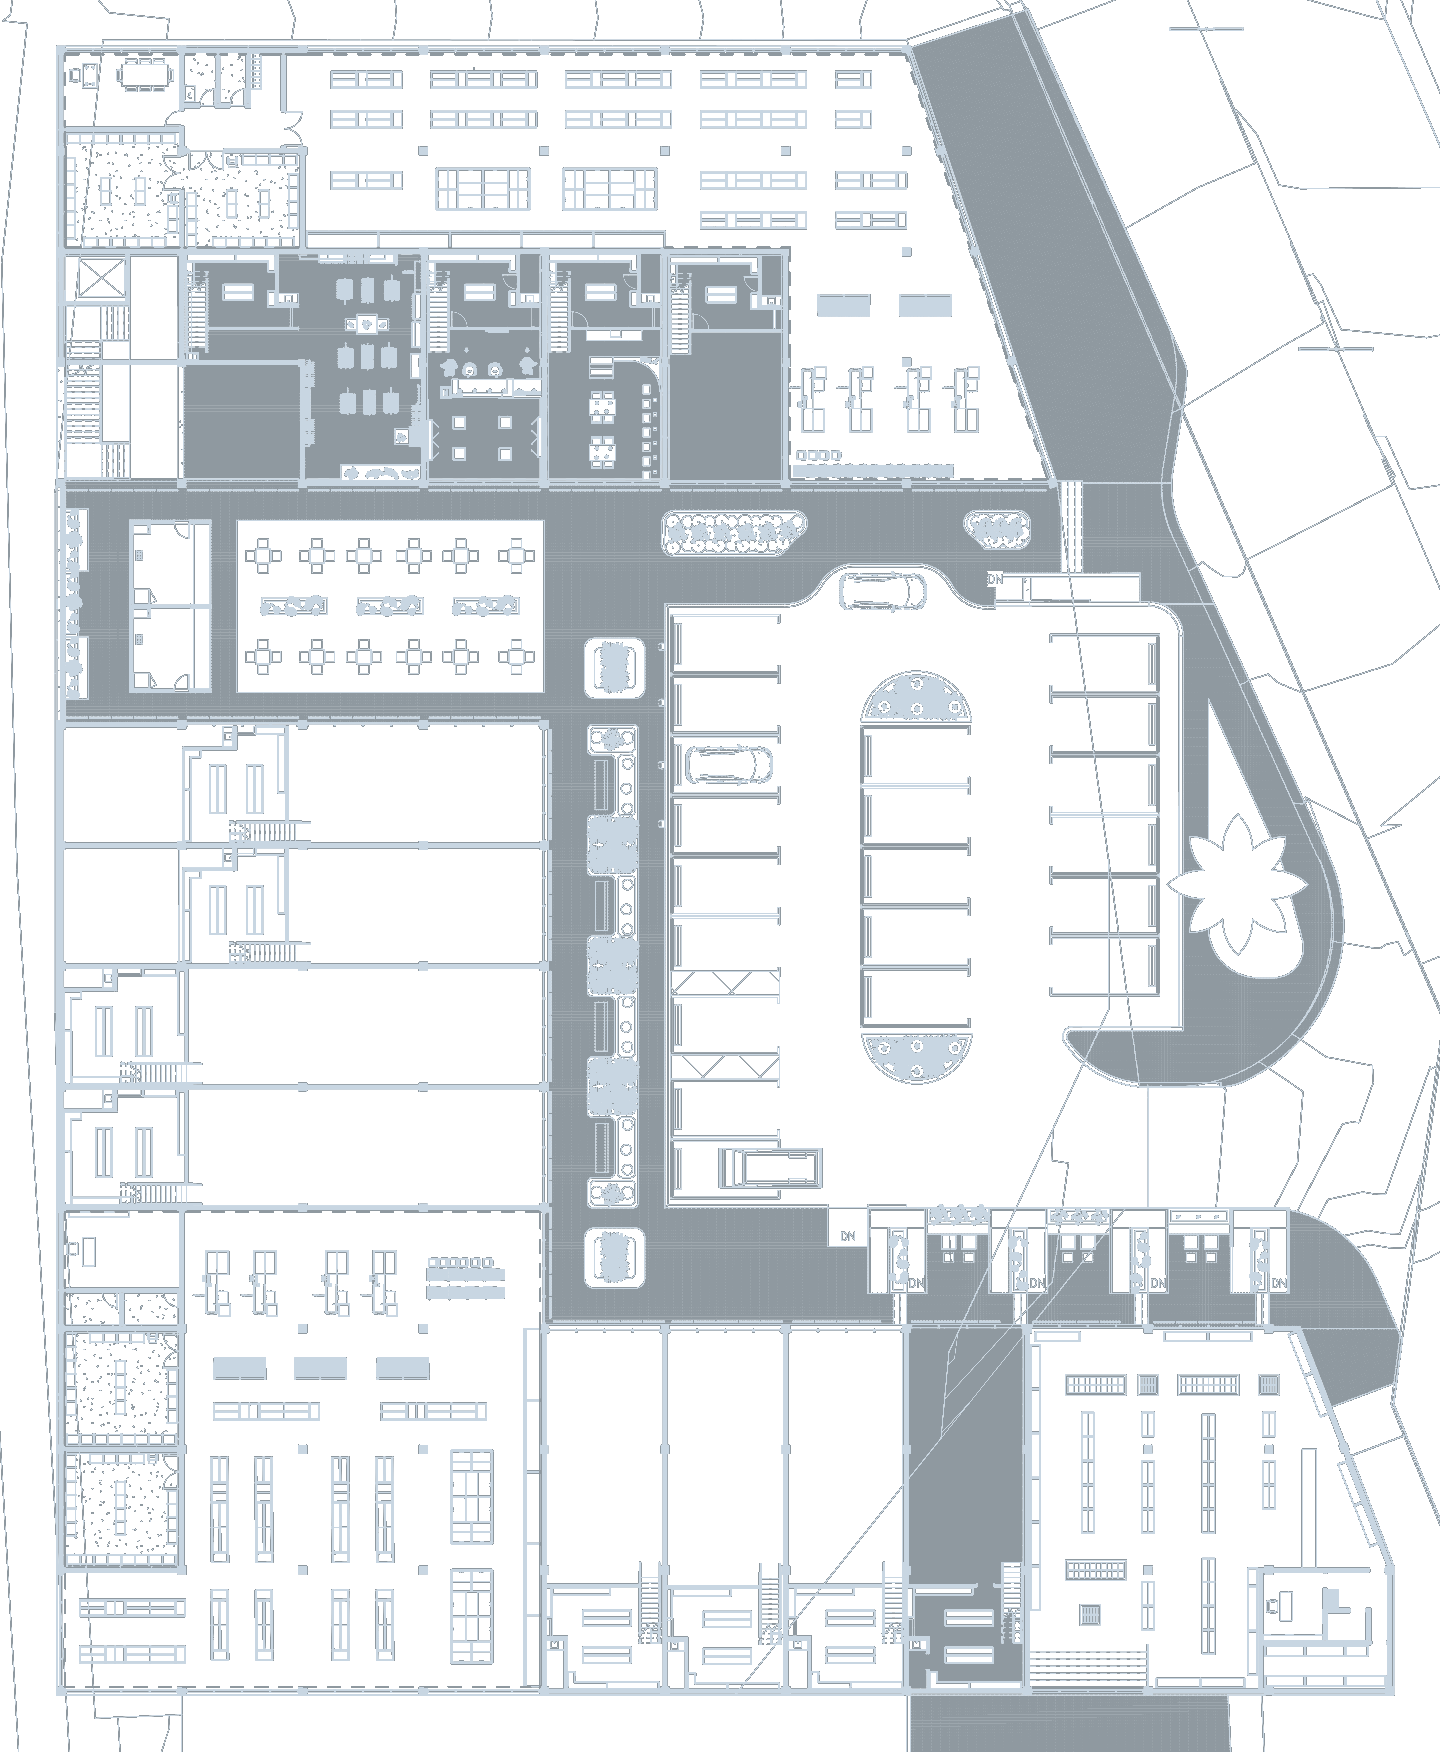
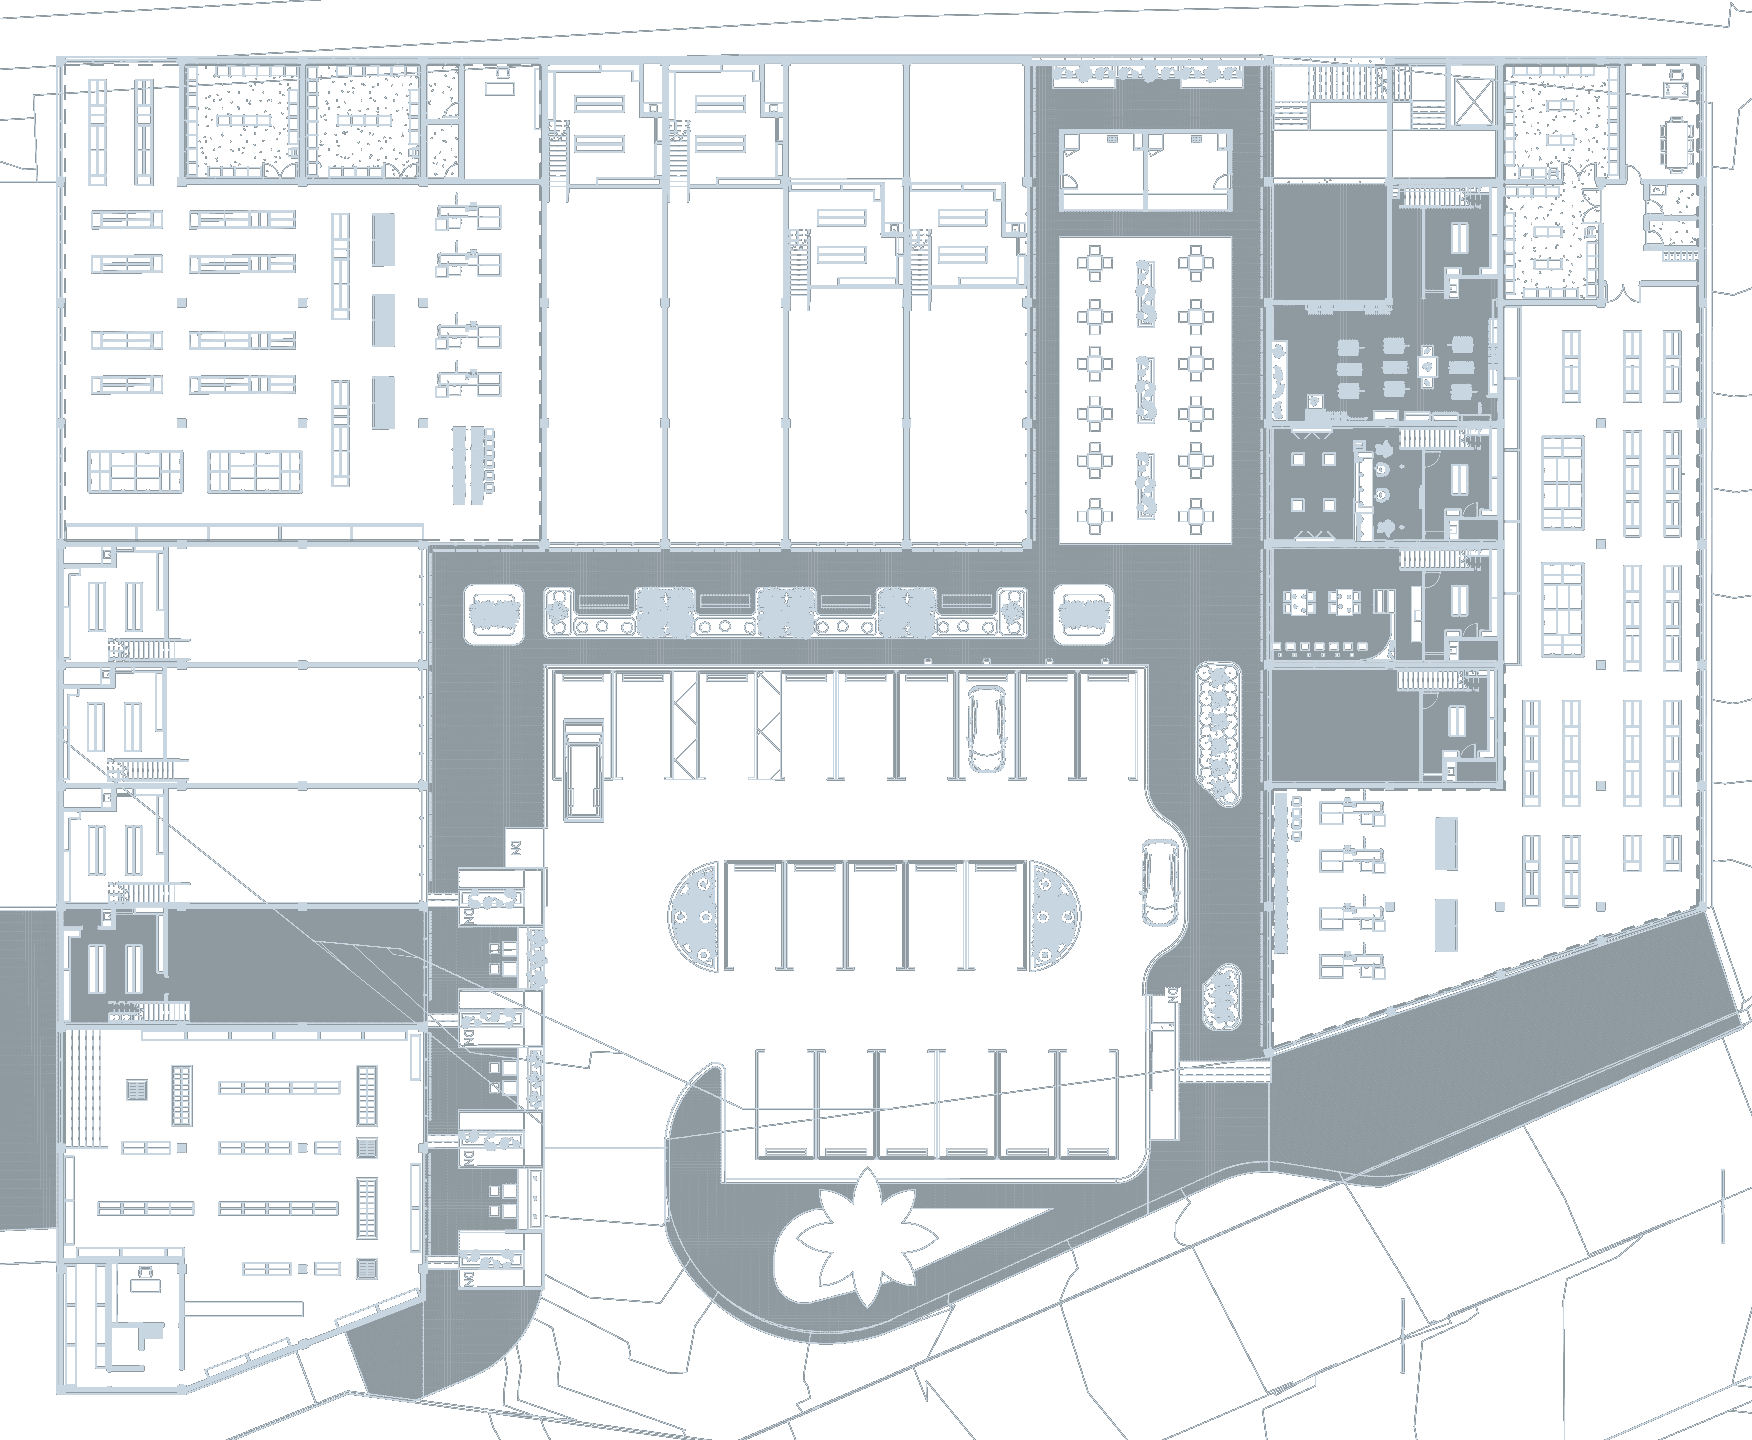
Primer piso: plano horizontal como antes y sin enlace Ver plano
- Plano amoblado girado 90 grados para verlo horizontal
- Se quita el texto Ver plano de las tarjetas de locales

diff --git a/script.js b/script.js
@@ -254,16 +254,19 @@ const LEVELS = {
       { id: 'pkg', name: 'Parqueadero Central', s: 'o', area: '1.450 m²', use: 'Estacionamiento & Rotonda', photo: 'assets/sotano-parqueadero.webp', desc: 'Estacionamiento vehicular en superficie con rotonda ajardinada, 25+ celdas y zona de movilidad.' }
     ],
     getSvg: function(units) {
-      let svg = '<svg viewBox="0 0 720 876" xmlns="http://www.w3.org/2000/svg" role="img" aria-label="Plano arquitectónico amoblado del primer piso">' +
-        '<image href="assets/plano-piso1.png" x="0" y="0" width="720" height="876"/>';
+      // Plano girado 90° a la derecha para verlo horizontal: (x, y) -> (876 - y, x)
+      const rot = ([x, y]) => [876 - y, x];
+      let svg = '<svg viewBox="0 0 876 720" xmlns="http://www.w3.org/2000/svg" role="img" aria-label="Plano arquitectónico amoblado del primer piso">' +
+        '<image href="assets/plano-piso1.png" x="0" y="0" width="876" height="720"/>';
       units.forEach(u => {
         const g = geoP1[u.id];
         if (!g) return;
-        const xs = g.pts.map(p => p[0]), ys = g.pts.map(p => p[1]);
-        const [cx, cy] = g.c || [Math.round((Math.min(...xs) + Math.max(...xs)) / 2), Math.round((Math.min(...ys) + Math.max(...ys)) / 2)];
+        const pts = g.pts.map(rot);
+        const xs = pts.map(p => p[0]), ys = pts.map(p => p[1]);
+        const [cx, cy] = g.c ? rot(g.c) : [Math.round((Math.min(...xs) + Math.max(...xs)) / 2), Math.round((Math.min(...ys) + Math.max(...ys)) / 2)];
         const label = u.lbl || u.id.toUpperCase();
         svg += '<g class="su ' + u.s + '" data-id="' + u.id + '" tabindex="0" role="button" aria-label="' + u.name + '">' +
-          '<polygon points="' + g.pts.map(p => p.join(',')).join(' ') + '"/>' +
+          '<polygon points="' + pts.map(p => p.join(',')).join(' ') + '"/>' +
           '<circle cx="' + cx + '" cy="' + cy + '" r="11"/>' +
           '<text x="' + cx + '" y="' + (cy + 4) + '" text-anchor="middle">' + label + '</text>' +
           '</g>';
@@ -451,7 +454,6 @@ function renderLevel(lvlKey, targetUnitId = null) {
       </div>
       <div class="uc-bottom">
         <span>${u.area || 'Consultar'}</span>
-        <span class="uc-btn-hint">Ver plano ↗</span>
       </div>
     </button>
   `).join('');
